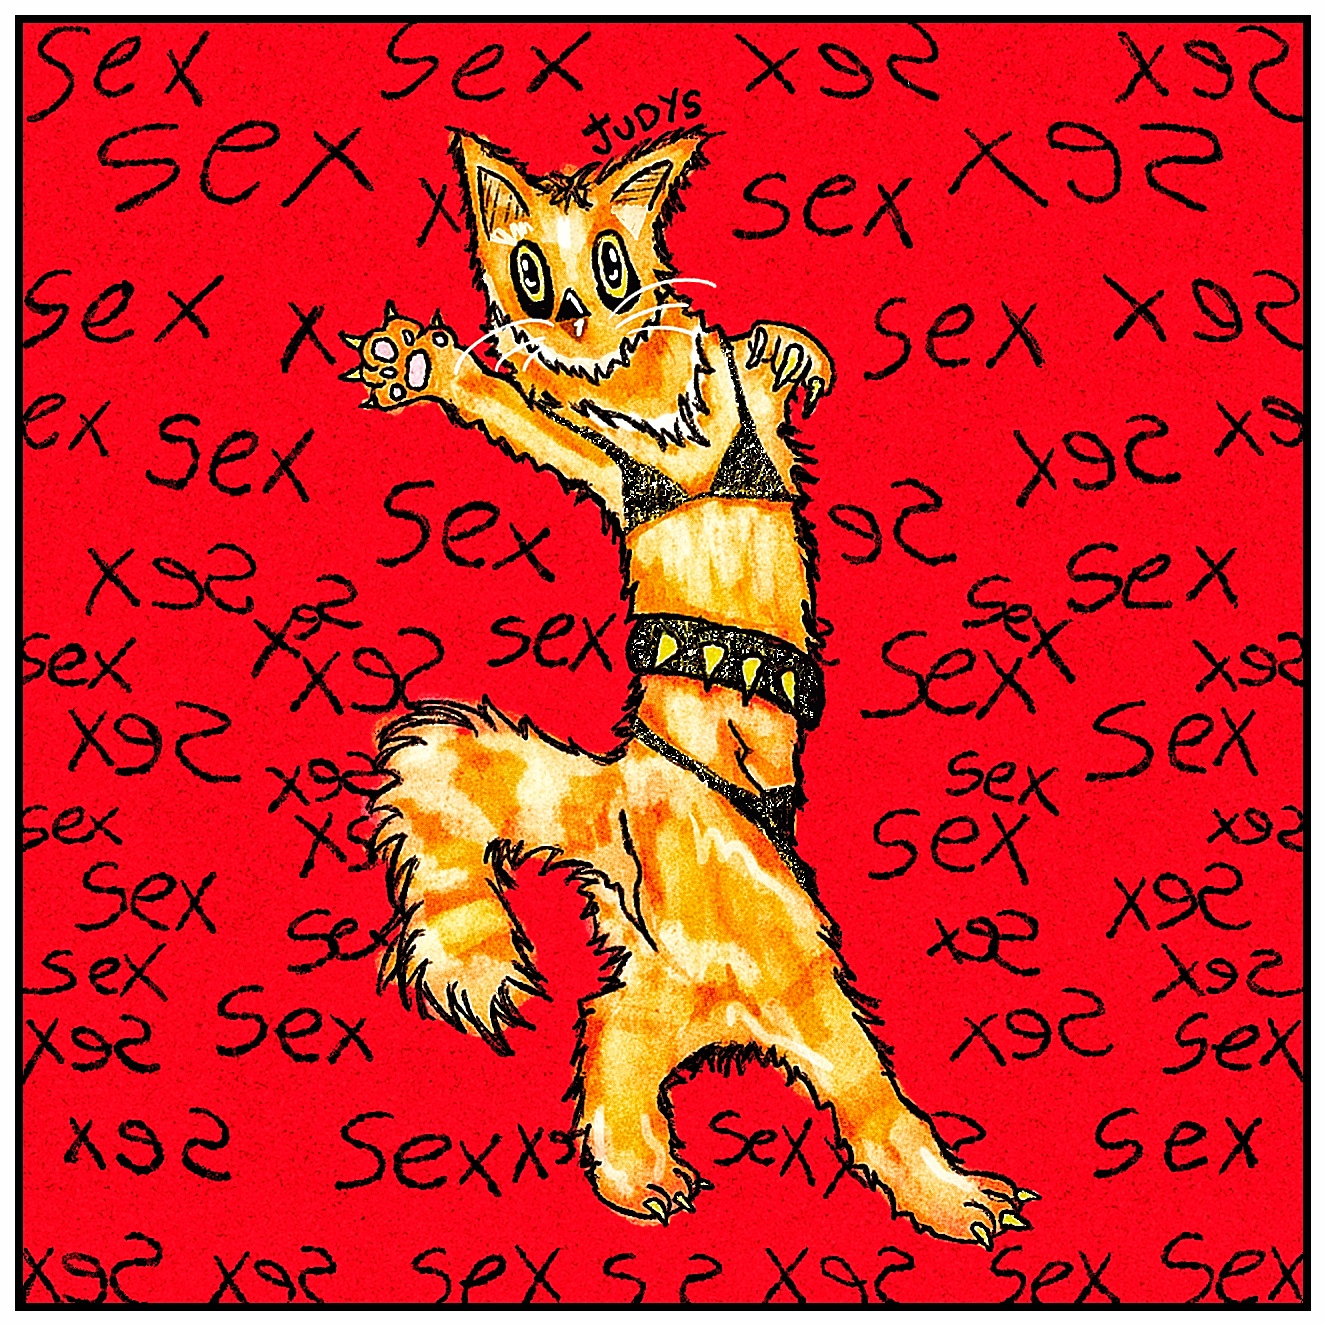
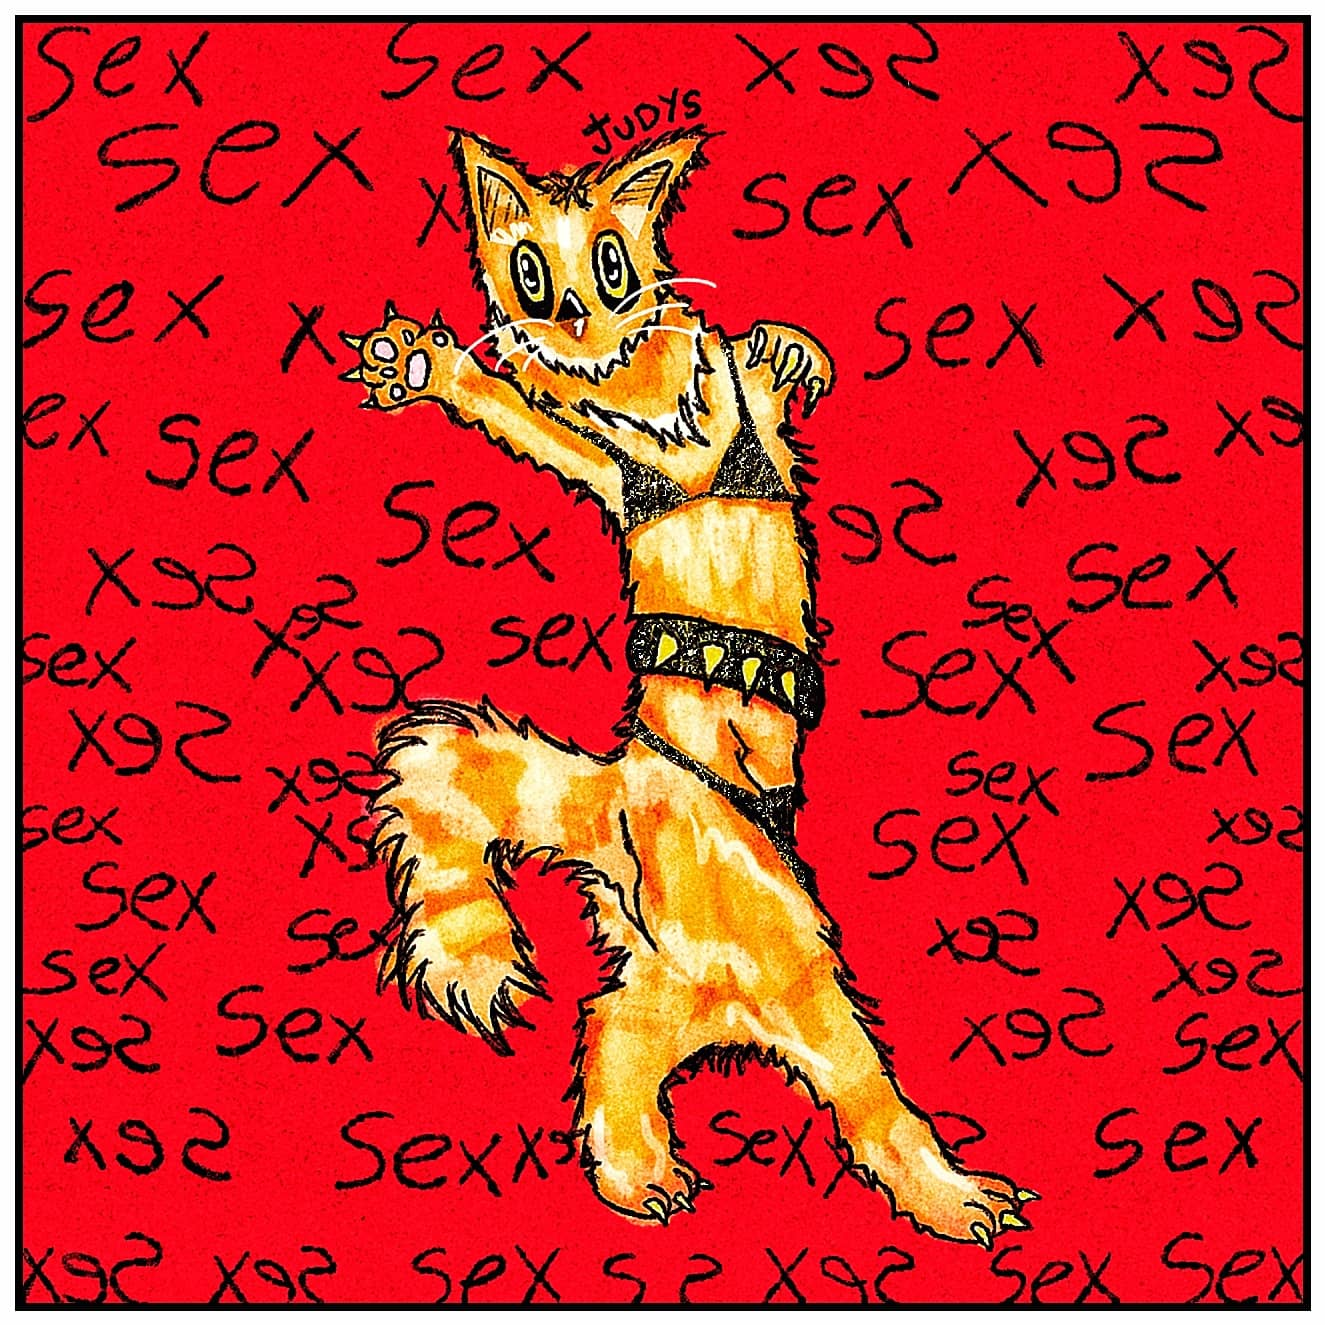
diminuir img

diff --git a/docs/edicao/14/index.html b/docs/edicao/14/index.html
@@ -224,7 +224,7 @@ gtag('config', 'G-F1B8E57YRL', { 'anonymize_ip': true});
 <h2 class="anchored" data-anchor-id="textos-nesta-edição">Textos nesta edição</h2>
 <div id="listing-edicao" class="quarto-listing quarto-listing-container-default">
 <div class="list quarto-listing-default">
-<div class="quarto-post image-right" data-index="0" data-listing-file-modified-sort="1720126971820" data-listing-reading-time-sort="2.82">
+<div class="quarto-post image-right" data-index="0" data-listing-file-modified-sort="1720130927396" data-listing-reading-time-sort="2.82">
 <div class="body">
 <a href="../../edicao/14/textos/caos-e-cosmos.html">
 <h3 class="no-anchor listing-title">
@@ -243,7 +243,7 @@ Ludmilla Rios
 </a>
 </div>
 </div>
-<div class="quarto-post image-right" data-index="1" data-listing-file-modified-sort="1720127117319" data-listing-reading-time-sort="2.31">
+<div class="quarto-post image-right" data-index="1" data-listing-file-modified-sort="1720130927396" data-listing-reading-time-sort="2.31">
 <div class="body">
 <a href="../../edicao/14/textos/efeito-ipanema.html">
 <h3 class="no-anchor listing-title">
@@ -262,7 +262,7 @@ Monalisa de Bandana
 </a>
 </div>
 </div>
-<div class="quarto-post image-right" data-index="2" data-listing-file-modified-sort="1720127210958" data-listing-reading-time-sort="1.29">
+<div class="quarto-post image-right" data-index="2" data-listing-file-modified-sort="1720130927397" data-listing-reading-time-sort="1.29">
 <div class="body">
 <a href="../../edicao/14/textos/pedaco-de-pecado.html">
 <h3 class="no-anchor listing-title">
@@ -281,7 +281,7 @@ Morgana
 </a>
 </div>
 </div>
-<div class="quarto-post image-right" data-index="3" data-listing-file-modified-sort="1720127291579" data-listing-reading-time-sort="0.74">
+<div class="quarto-post image-right" data-index="3" data-listing-file-modified-sort="1720130927397" data-listing-reading-time-sort="0.74">
 <div class="body">
 <a href="../../edicao/14/textos/pele-e-carne.html">
 <h3 class="no-anchor listing-title">
@@ -300,7 +300,7 @@ Yasmin Ferraz
 </a>
 </div>
 </div>
-<div class="quarto-post image-right" data-index="4" data-listing-file-modified-sort="1720127366941" data-listing-reading-time-sort="0.75">
+<div class="quarto-post image-right" data-index="4" data-listing-file-modified-sort="1720130927398" data-listing-reading-time-sort="0.75">
 <div class="body">
 <a href="../../edicao/14/textos/sede-noturna.html">
 <h3 class="no-anchor listing-title">
@@ -319,7 +319,7 @@ Rafael Mendes de Barros
 </a>
 </div>
 </div>
-<div class="quarto-post image-right" data-index="5" data-listing-file-modified-sort="1720127433155" data-listing-reading-time-sort="1.425">
+<div class="quarto-post image-right" data-index="5" data-listing-file-modified-sort="1720130927397" data-listing-reading-time-sort="1.425">
 <div class="body">
 <a href="../../edicao/14/textos/gabriela.html">
 <h3 class="no-anchor listing-title">
@@ -338,7 +338,7 @@ Amanda Genevieve
 </a>
 </div>
 </div>
-<div class="quarto-post image-right" data-index="6" data-listing-file-modified-sort="1720127802189" data-listing-reading-time-sort="1.405">
+<div class="quarto-post image-right" data-index="6" data-listing-file-modified-sort="1720130927397" data-listing-reading-time-sort="1.405">
 <div class="body">
 <a href="../../edicao/14/textos/reflexao-sobre-luxuria.html">
 <h3 class="no-anchor listing-title">

diff --git a/docs/todas-edicoes.html b/docs/todas-edicoes.html
@@ -178,7 +178,7 @@ gtag('config', 'G-F1B8E57YRL', { 'anonymize_ip': true});
 
 <div id="listing-edicoes" class="quarto-listing quarto-listing-container-grid">
 <div class="list grid quarto-listing-cols-3">
-<div class="g-col-1" data-index="0" data-listing-date-sort="1719716400000" data-listing-file-modified-sort="1720129392353" data-listing-reading-time-sort="5.115">
+<div class="g-col-1" data-index="0" data-listing-date-sort="1719716400000" data-listing-file-modified-sort="1720130927395" data-listing-reading-time-sort="5.115">
 <a href="./edicao/14/index.html" class="quarto-grid-link">
 <div class="quarto-grid-item card h-100 card-left">
 <p class="card-img-top">

diff --git a/docs/edicoes.html b/docs/edicoes.html
@@ -190,7 +190,7 @@ Edições
 </h2>
 <div id="listing-edicoes" class="quarto-listing quarto-listing-container-grid">
 <div class="list grid quarto-listing-cols-3">
-<div class="g-col-1" data-index="0" data-listing-date-sort="1719716400000" data-listing-file-modified-sort="1720129392353" data-listing-reading-time-sort="5.115">
+<div class="g-col-1" data-index="0" data-listing-date-sort="1719716400000" data-listing-file-modified-sort="1720130927395" data-listing-reading-time-sort="5.115">
 <a href="./edicao/14/index.html" class="quarto-grid-link">
 <div class="quarto-grid-item card h-100 card-left">
 <p class="card-img-top">
